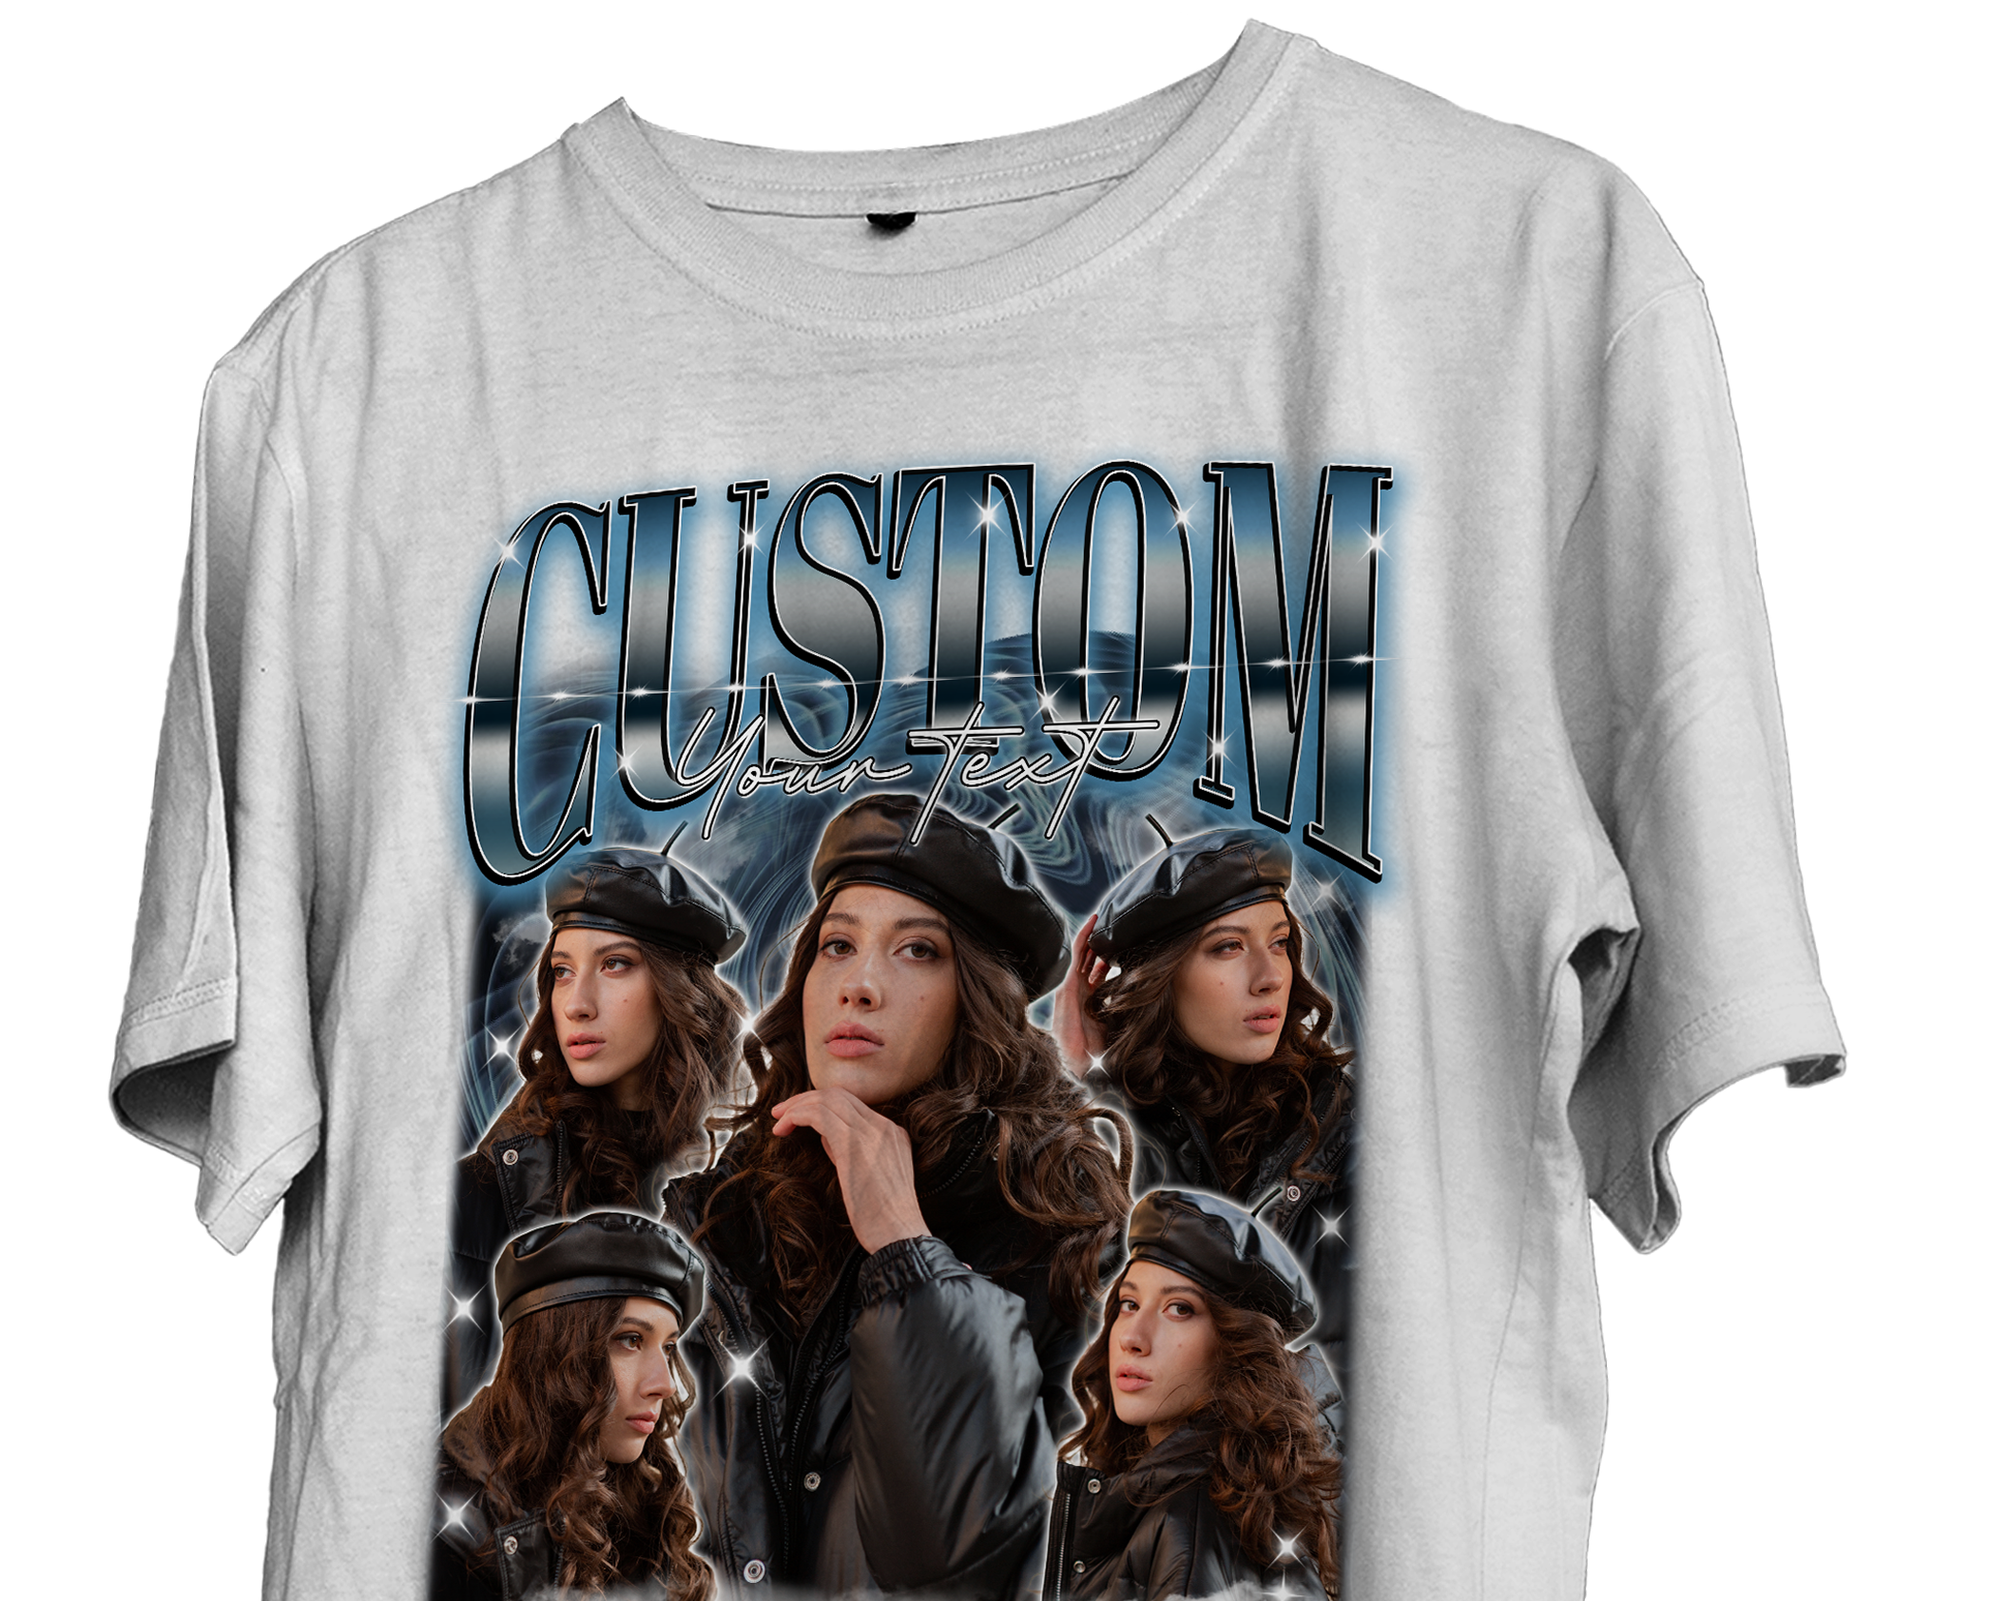
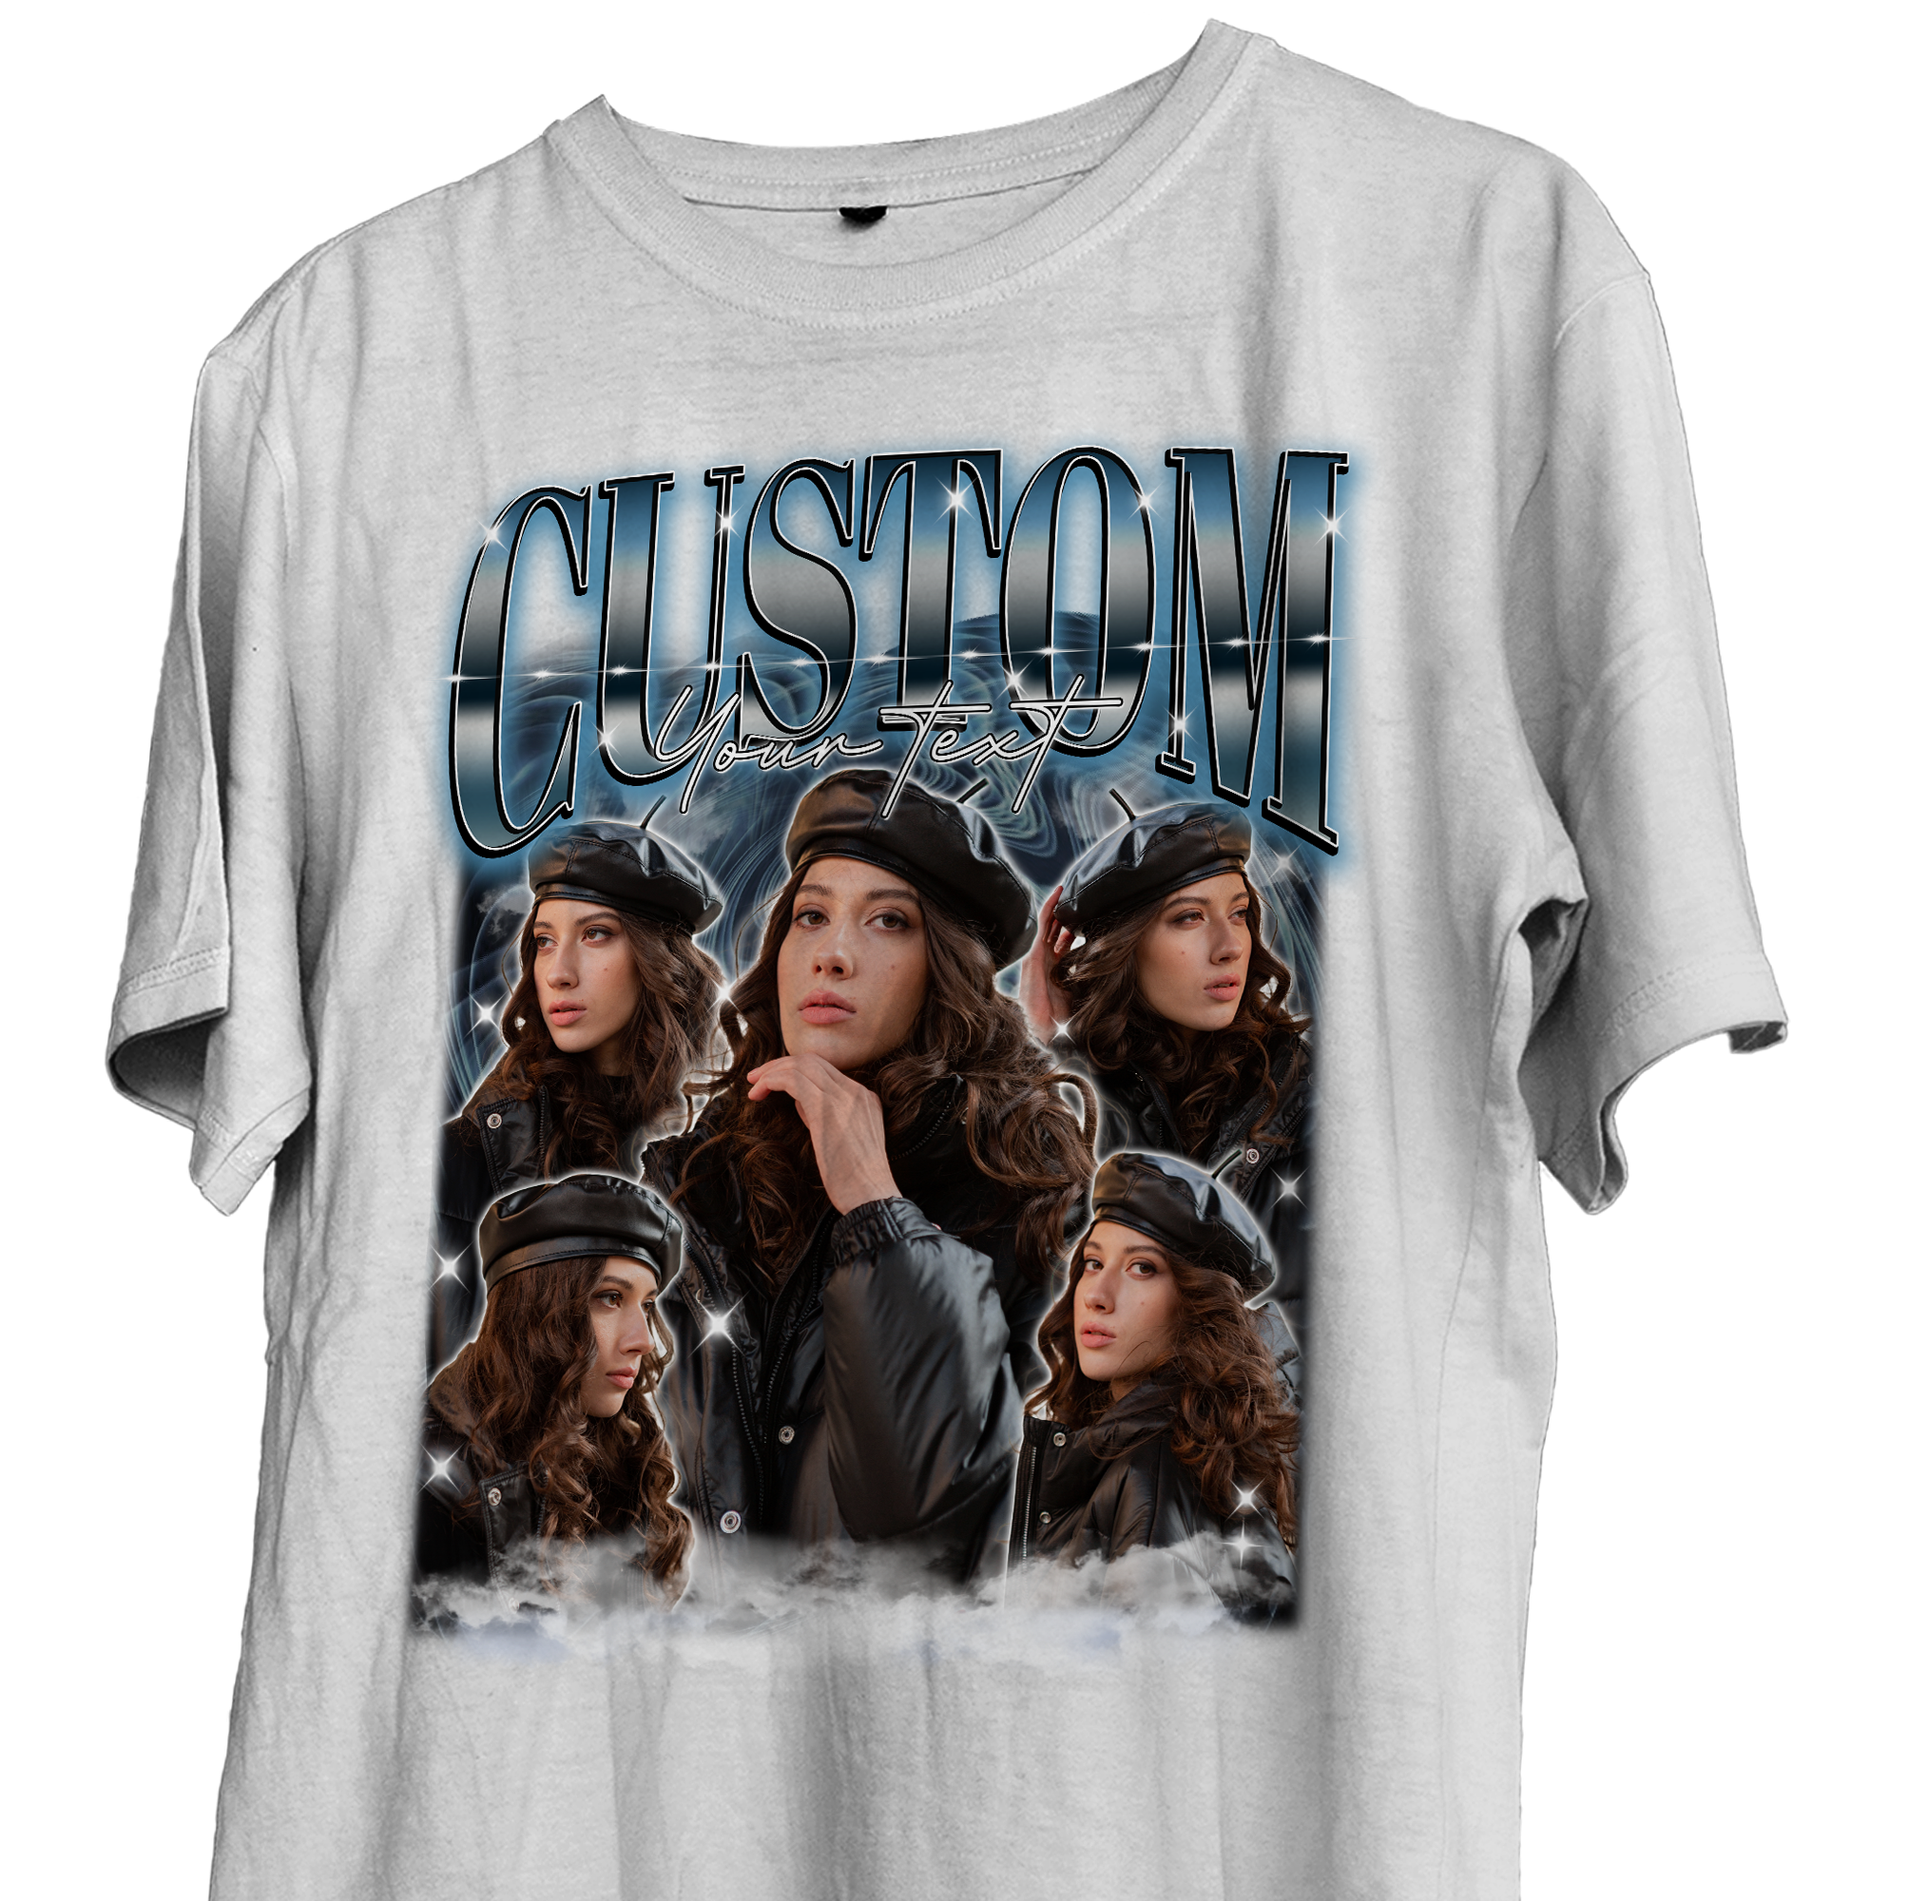
glitch animation is missing

diff --git a/components/pages/LandingPageAnimated.js b/components/pages/LandingPageAnimated.js
@@ -1,35 +1,98 @@
+"use client"
 import Image from "next/image"
-
+import { useRef } from "react"
 import LandingPageImageOne from "@/public/assets/landingAnimation-1.png"
 import LandingPageImageTwo from "@/public/assets/landingAnimation-2.png"
 import LandingPageImageThree from "@/public/assets/landingAnimation-3.png"
+import splitType from "split-type"
+import { useGSAP } from "@gsap/react"
+import gsap from "gsap"
+import { ScrollTrigger } from "gsap/ScrollTrigger"
+
+gsap.registerPlugin(ScrollTrigger)
 
 const LandingPageAnimated = () => {
+
+    const mostLikedRef = useRef(null)
+    const bestSellersRef = useRef(null)
+    const tShirtRef = useRef(null)
+    const imagesRef = useRef(null)
+    const buttonRef = useRef(null)
+    const mostLikedDivRef = useRef(null)
+    const bestSellersDivRef = useRef(null)
+    const tShirtDivRef = useRef(null)
+    const imagesDivRef = useRef(null)
+    const buttonDivRef = useRef(null)
+
+    useGSAP(() => {
+        const splitBestSellers = new splitType(bestSellersRef.current, { type: "words" })
+        const splitTShirt = new splitType(tShirtRef.current, { type: "words" })
+
+        gsap.from([splitBestSellers.words, splitTShirt.words, imagesRef.current, buttonRef.current], {
+            y: 600,
+            duration: 2,
+            opacity: 0,
+            ease: "expo.inOut",
+            stagger: 0.05,
+            scrollTrigger: {
+                trigger: bestSellersRef.current,
+                start: "top 95%",
+                end: "bottom 20%",
+                toggleActions: "play none none reverse"
+            }
+        })
+
+        gsap.from([mostLikedDivRef.current, bestSellersDivRef.current, tShirtDivRef.current, imagesDivRef.current, buttonDivRef.current], {
+            y: 100,
+            duration: 2,
+            opacity: 0,
+            ease: "expo.inOut",
+            stagger: 0.05,
+            scrollTrigger: {
+                trigger: bestSellersRef.current,
+                start: "top 95%",
+                end: "bottom 20%",
+                toggleActions: "play none none reverse"
+            }
+        })
+        
+    })
+
     return (
         <div className="h-screen w-full relative">
             <div className="absolute top-[45%] -translate-y-1/2">
-                <p className="px-6 py-2 relative flex w-fit my-4 left-14 bg-[#FF3A651A] items-center gap-4">
-                    <Image src="/assets/HeartStraight.svg" alt="ArrowRight" width={20} height={20} />
-                    <span>MOST LIKED DESIGNS</span>
-                </p>
-                <h1 className="text-8xl font-bold text-white px-12">BEST SELLERS</h1>
-                <p className="text-white px-12 flex flex-col relative left-1">
-                    <span className="opacity-40">T SHIRT</span>
-                    <span className="flex gap-2 items-center">
-                        <span className="text-xl">BOOTLEG</span>
-                        <span className="bg-[#EAB6511A] text-[#EAB651] px-4 py-1 text-sm">DESIGN #2</span>
-                    </span>
-                    <span className="text-xl">$1250</span>
-                </p>
-                <div className="flex gap-4 px-12 py-8">
-                    <Image src={LandingPageImageOne} alt="LandingPageImageOne" className="rounded-full" width={100} height={100} />
-                    <Image src={LandingPageImageTwo} alt="LandingPageImageTwo" className="rounded-full" width={100} height={100} />
-                    <Image src={LandingPageImageThree} alt="LandingPageImageThree" className="rounded-full" width={100} height={100} />
+                <div ref={mostLikedDivRef} className="h-fit overflow-hidden">
+                    <p className="px-6 py-2 relative flex w-fit my-4 left-14 bg-[#FF3A651A] items-center gap-4">
+                        <Image src="/assets/HeartStraight.svg" alt="ArrowRight" width={20} height={20} className="opacity-0" />
+                        <span>MOST LIKED DESIGNS</span>
+                    </p>
                 </div>
-                <button className="bg-[#FF3A65] px-6 py-4 flex items-center gap-2 relative left-12">
-                    <p className="px-3">EXPLORE ALL DESIGNS</p>
-                    <Image src="/assets/ArrowLeft.svg" alt="ButtonArrow" width={60} height={60} />
-                </button>
+                <div ref={bestSellersDivRef} className="h-fit overflow-hidden">
+                    <h1 ref={bestSellersRef} className="text-8xl font-bold text-white px-12">BEST SELLERS</h1>
+                </div>
+                <div ref={tShirtDivRef} className="h-fit overflow-hidden">
+                    <p ref={tShirtRef} className="text-white px-12 flex flex-col relative left-1">
+                        <span className="opacity-40">T SHIRT</span>
+                        <span className="flex gap-2 items-center">
+                            <span className="text-xl">BOOTLEG</span>
+                            <span className="bg-[#EAB6511A] text-[#EAB651] px-4 py-1 text-sm">DESIGN #2</span>
+                        </span>
+                        <span className="text-xl">$1250</span>
+                    </p>
+                </div>
+                <div ref={imagesDivRef} className="h-fit overflow-hidden">
+                    <div ref={imagesRef} className="flex gap-4 px-12 py-8">
+                        <Image src={LandingPageImageOne} alt="LandingPageImageOne" className="rounded-full" width={100} height={100} />
+                        <Image src={LandingPageImageTwo} alt="LandingPageImageTwo" className="rounded-full" width={100} height={100} />
+                        <Image src={LandingPageImageThree} alt="LandingPageImageThree" className="rounded-full" width={100} height={100} />
+                    </div>
+                </div>
+                <div ref={buttonDivRef} className="h-fit overflow-hidden">
+                    <button ref={buttonRef} className="bg-[#FF3A65] px-6 py-4 flex items-center gap-2 relative left-12">
+                        <p className="px-3">EXPLORE ALL DESIGNS</p>
+                        <Image src="/assets/ArrowLeft.svg" alt="ButtonArrow" width={60} height={60} />
+                    </button>
+                </div>
             </div>
         </div>
     )

diff --git a/components/pages/MainLandingPage.js b/components/pages/MainLandingPage.js
@@ -44,8 +44,8 @@ const MainLandingPage = () => {
 
     return (
         <div>
-            <div className="fixed top-56 right-0">
-                <Image ref={animateImageRef} src="/assets/T-Shirt.png" alt="landing-page-bg" width={500} height={500} className="object-cover z-50 h-[40vw] w-[50vw]" />
+            <div className="fixed top-40 right-0">
+                <Image ref={animateImageRef} src="/assets/T-Shirt.png" alt="landing-page-bg" width={900} height={900} className="object-contain z-50 h-[44vw] w-[54vw]" />
             </div>
             <LandingPage />
             <LandingPageAnimated />

diff --git a/components/pages/LandingPage.js b/components/pages/LandingPage.js
@@ -37,7 +37,7 @@ const LandingPage = () => {
         }, "he")
 
         tl.from([textAnimeOneDiv.current, textAnimeTwoDiv.current, textAnimeThreeDiv.current, subBlogAnimeDiv.current, buttonAnimeDiv.current], {
-            y: 600,
+            y: 100,
             duration: 3,
             opacity: 0,
             ease: "expo.inOut",
